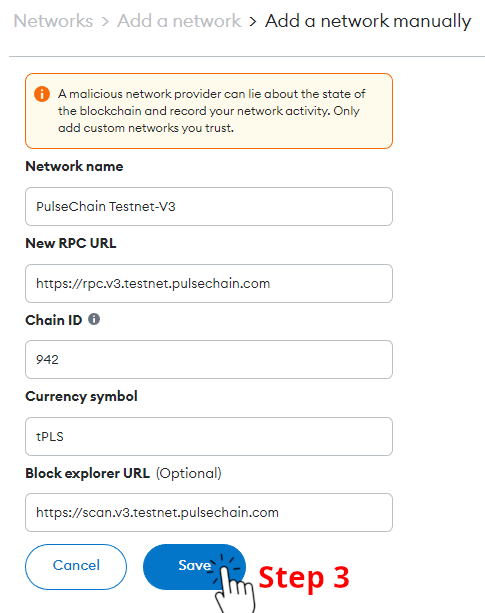
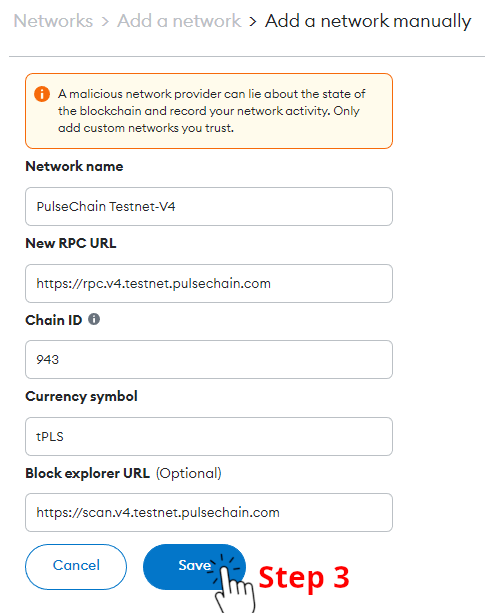
Update documentation for Testnet-V4

diff --git a/README.md b/README.md
@@ -1,4 +1,4 @@
-# PulseChain Testnet V3
+# PulseChain Testnet V4
 
 The PulseChain Testnet is up and running. This document will guide you through connecting Metamask to the network and bootstrapping a PulseChain node of your own.
 
@@ -6,15 +6,12 @@ The PulseChain Testnet is up and running. This document will guide you through c
 
 > **Disclaimer 2**: The state of this network may be reset on occasion, and nothing should be considered permanent after the fork block. We will communicate ahead of time when these resets are planned.
 
-### **Version 3** 🎉
+### **Version 4**
 
-This iteration of PulseChain is an entirely new implementation and represents a hard departure from prior testnets. 
-
-The new implementation is based on Ethereum's POS model and implements an entirely new beacon chain while forking the Ethereum execution chain and state.
-> 💭 *Previous versions were based on the POSA (proof of staked authority) model.*
+For Testnet-V4, beacon chain presets have been adjusted to correct the issuance rate and validator APR.
 
 **This version of the PulseChain Testnet brings the following enhancements:**
--  A revamped consensus model based on Ethereum POS.
+- A revamped consensus model based on Ethereum POS.
 - Decreased slot time compared with Ethereum `10s vs 12s (a ~17% speedup)`.
 - Validator reward burning (= more deflationary pressure).
     + 25% fee burn + additional burn to compensate for reduced slot time.
@@ -29,8 +26,8 @@ The new implementation is based on Ethereum's POS model and implements an entire
 
 Public block and beacon explorers are available at the URLs below:
 
-- [PulseChain Block Explorer](https://scan.v3.testnet.pulsechain.com)
-- [PulseChain Beacon Explorer](https://beacon.v3.testnet.pulsechain.com)
+- [PulseChain Block Explorer](https://scan.v4.testnet.pulsechain.com)
+- [PulseChain Beacon Explorer](https://beacon.v4.testnet.pulsechain.com)
 
 > The PulseChain team welcomes the development 3rd-party explorers!
 
@@ -43,19 +40,19 @@ Follow these instructions to manually add the new Testnet to your Metamask plugi
 **2. At the bottom of the network list, click `Add a network manually`** ([Screenshot](images/step2.png)).
 
 **3. Enter the following information into the form and `save`:** ([Screenshot](images/step3.png)).
-- Network Name: `PulseChain Testnet-V3`
-- New RPC URL: `https://rpc.v3.testnet.pulsechain.com`
-- Chain ID: `942`
+- Network Name: `PulseChain Testnet-V4`
+- New RPC URL: `https://rpc.v4.testnet.pulsechain.com`
+- Chain ID: `943`
 - Currency Symbol: `tPLS`
-- Block explorer URL: `https://scan.v3.testnet.pulsechain.com`
+- Block explorer URL: `https://scan.v4.testnet.pulsechain.com`
 
-**Congratulations**! You are now connected to the PulseChain Testnet-V3. Existing ethereum accounts that had balances as of block `16,492,699` (*Jan-26-2023 06:11:35 PM +UTC*) will have the equivalent balance on the PulseChain Testnet in addition to the **beta release** of credits from the sacrifice phase as well as any ethereum staking deposit refunds.
+**Congratulations**! You are now connected to the PulseChain Testnet-V4. Existing ethereum accounts that had balances as of block `16,492,699` (*Jan-26-2023 06:11:35 PM +UTC*) will have the equivalent balance on the PulseChain Testnet in addition to the **beta release** of credits from the sacrifice phase as well as any ethereum staking deposit refunds.
 
 ## Getting tPLS to use on the PulseChain Testnet
 
 To get tPLS you can use the tPLS faucet.
 
-1. Navigate to the tPLS faucet https://faucet.v3.testnet.pulsechain.com/
+1. Navigate to the tPLS faucet https://faucet.v4.testnet.pulsechain.com/
 2. Connect your Metamask wallet by clicking on the button.
 3. Enter the address you want to send tPLS to and click the `Request` button.
 4. Wait up to 60 seconds to receive your tPLS.
@@ -101,7 +98,7 @@ Once your blockchain directory is ready, you can start the execution client and 
 Option 1: [Go-Pulse](https://gitlab.com/pulsechaincom/go-pulse)
 ```shell
 docker run --network=host -v /blockchain:/blockchain registry.gitlab.com/pulsechaincom/go-pulse \
---pulsechain-testnet-v3 \
+--pulsechain-testnet-v4 \
 --authrpc.jwtsecret=/blockchain/jwt.hex \
 --datadir=/blockchain/execution
 ```
@@ -109,7 +106,7 @@ docker run --network=host -v /blockchain:/blockchain registry.gitlab.com/pulsech
 Option 2: [Erigon-Pulse](https://gitlab.com/pulsechaincom/erigon-pulse)
 ```shell
 docker run --network=host -v /blockchain:/blockchain registry.gitlab.com/pulsechaincom/erigon-pulse \
---chain=pulsechain-testnet-v3 \
+--chain=pulsechain-testnet-v4 \
 --authrpc.jwtsecret=/blockchain/jwt.hex \
 --datadir=/blockchain/execution \
 --externalcl
@@ -123,22 +120,22 @@ Once your execution client is running, you can start the consensus client and co
 
 Option 1: [Prysm-Pulse](https://gitlab.com/pulsechaincom/prysm-pulse)
 ```shell
-docker run --network=host -v /blockchain:/blockchain registry.gitlab.com/pulsechaincom/prysm-pulse/beacon-chain:latest \
---pulsechain-testnet-v3 \
+docker run --network=host -v /blockchain:/blockchain registry.gitlab.com/pulsechaincom/prysm-pulse/beacon-chain \
+--pulsechain-testnet-v4 \
 --jwt-secret=/blockchain/jwt.hex \
 --datadir=/blockchain/consensus \
---checkpoint-sync-url=https://checkpoint.v3.testnet.pulsechain.com \
---genesis-beacon-api-url=https://checkpoint.v3.testnet.pulsechain.com
+--checkpoint-sync-url=https://checkpoint.v4.testnet.pulsechain.com \
+--genesis-beacon-api-url=https://checkpoint.v4.testnet.pulsechain.com
 ```
 
 Option 2: [Lighthouse-Pulse](https://gitlab.com/pulsechaincom/lighthouse-pulse)
 ```shell
-docker run --network=host -v /blockchain:/blockchain registry.gitlab.com/pulsechaincom/lighthouse-pulse:latest \
---network=pulsechain_testnet_v3 \
+docker run --network=host -v /blockchain:/blockchain registry.gitlab.com/pulsechaincom/lighthouse-pulse \
+--network=pulsechain_testnet_v4 \
 --execution-jwt=/blockchain/jwt.hex \
 --datadir=/blockchain/consensus \
 --execution-endpoint=http://localhost:8551 \
---checkpoint-sync-url https://checkpoint.v3.testnet.pulsechain.com \
+--checkpoint-sync-url https://checkpoint.v4.testnet.pulsechain.com \
 --http 
 ```
 
@@ -198,7 +195,7 @@ docker run -it registry.gitlab.com/pulsechaincom/go-pulse --pulsechain-testnet -
 
 ### 4. Re-Initialize Genesis w/ Updated Chain Config
 
-With the blockchain rolled back to the last ethereum mainnet block, you can now reinitialize the genesis for Testnet V3, using the `genesis.json` file you dumped in step 2.
+With the blockchain rolled back to the last ethereum mainnet block, you can now reinitialize the genesis for Testnet V4, using the `genesis.json` file you dumped in step 2.
 
 ```shell
 docker run -v /blockchain:/blockchain registry.gitlab.com/pulsechaincom/go-pulse --datadir=/blockchain init /blockchain/genesis.json
@@ -212,6 +209,6 @@ After the init command has completed, you can follow the normal steps above to [
 
 Running a Validator is a **responsibility** to keep your node healthy and running, or your deposited funds will be at risk. A `32 million tPLS` deposit will be required to register a validator.
 
-If you are interested in running a Validator for the PulseChain Testnet-V3 head over to our [Staking Launchpad](https://launchpad.v3.testnet.pulsechain.com).
+If you are interested in running a Validator for the PulseChain Testnet-V4 head over to our [Staking Launchpad](https://launchpad.v4.testnet.pulsechain.com).
 
 > At this time, there is no ability to deregister and un-stake. We are following upstream progress and will be bringing the feature to PulseChain soon.
